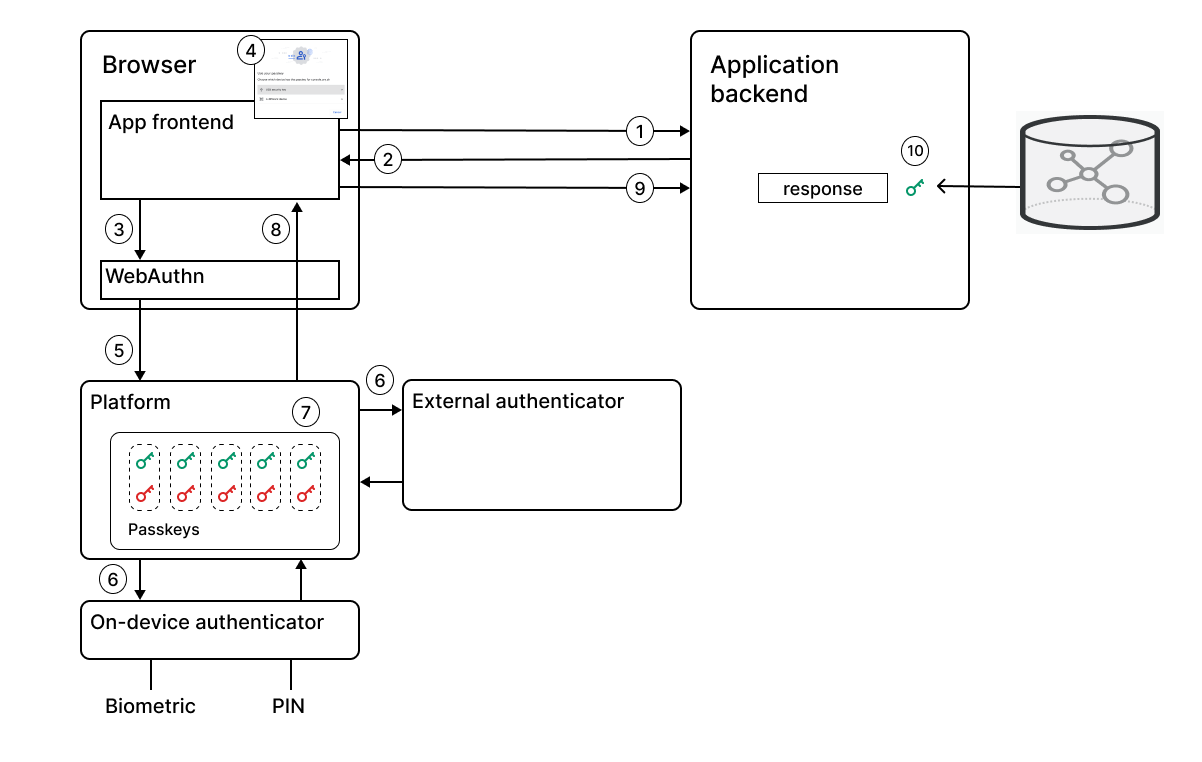
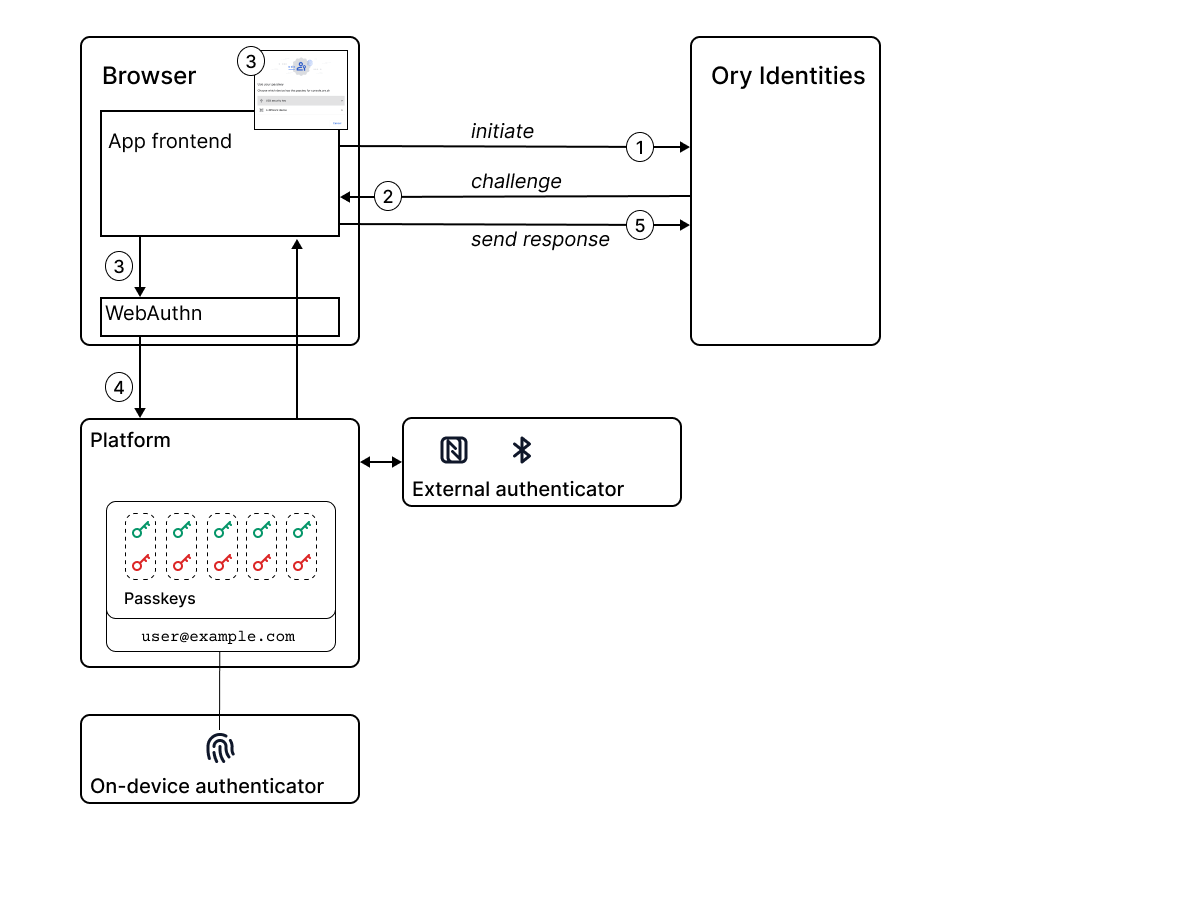
Latest draft of passwordless usecase

diff --git a/docs/use-cases/passwordless.md b/docs/use-cases/passwordless.md
@@ -13,19 +13,12 @@ their system against phishing attacks, but they would like to understand more an
 
 ## How does Ory support passwordless authentication?
 
-For browser-based apps, Ory supports passwordless authentication out of the box. Ory's self-service flows support passwordless
-authentication by integrating with the
+Ory's self-service flows support passwordless authentication for browser-based apps by integrating with the
 [W3C Web Authentication (WebAuthn) API](https://developer.mozilla.org/en-US/docs/Web/API/Web_Authentication_API) for browsers.
 After enabling WebAuthn in an Ory project, the Ory Account Experience automatically presents passwordless as an option in the
-registration and login flows. When developing your own authentication UI, the steps for integrating your application with the
-passwordless registration and login flows is described
+registration and login flows. When developing your own authentication UI for a browser-based app, the steps for integrating your
+application with the passwordless registration and login flows are described
 [in the documentation](https://www.ory.sh/docs/kratos/bring-your-own-ui/custom-ui-advanced-integration#passwordless-authentication).
-
-Support for passkeys and passwordless varies, depending on whether you are using a browser-based app or a native app:
-
-- For browser-based apps, passwordless works out of the box (leveraging WebAuthn).
-- For native apps, you need to implement your own integration with the underlying platform, using the protocol defined in the
-  CTAP2 specification.
 
 Because passwordless is a relatively new technology, at the time of writing it has not yet been rolled out across all browsers and
 platforms, but adoption is spreading rapidly. Very soon, passwordless authentication is expected to become available on all major
@@ -55,7 +48,7 @@ From the end user's perspective, passwordless login with an on-device authentica
 3. The Ory Account Experience displays the sign-in preparation dialog, which gives the user time to prepare the physical device
    for passwordless login. The user clicks **Continue** to proceed to the next step.
 4. The platform verifies the user's identity using the chosen method.
-5. Login/registration completes automatically.
+5. Login completes automatically.
 
 ### External authenticator for passwordless login flow
 
@@ -69,7 +62,7 @@ From the end user's perspective, passwordless login with an external authenticat
    ![Choose external authenticator device](./_static/external-device-choose.png)
 5. The platform verifies the user's identity using the chosen method.
    ![Verify identity with USB security key](./_static/external-device-verify-identity.png)
-6. Login/registration completes automatically.
+6. Login completes automatically.
 
 ### Authenticator options for passwordless
 
@@ -118,23 +111,23 @@ Consider the following diagram, which illustrates the passwordless-based login f
 
 The main steps in the passwordless login flow are, as follows:
 
-1. The frontend app detects that a user session is needed and sends a request to the application backend (server) to initiate
-   authentication.
-2. The server generates a challenge (consisting essentially of randomized data) and sends it back to the frontend app.
-3. The frontend app requests identity verification through the browser API (WebAuthn), passing the challenge from the server and
-   the ID that identifies this particular app (the _relying party ID_).
-4. WebAuthn pops up a dialog in the browser, presenting the user with options for verifying their identity.
-5. After the user selects a verification option, WebAuthn asks the platform (through the CTAP2 protocol) to verify the user's
-   identity using the chosen authenticator.
-6. The platform verifies the user identity using either:
-   - An on-device authenticator
-   - An external authenticator
-7. If the user identity is verified, the platform retrieves the key pair for the application and uses the private key (passkey) to
-   sign the challenge issued by the server.
-8. The platform returns the signed response to the browser and the frontend app.
-9. The frontend app returns the signed response to the server.
-10. The server validates the signed reponse, using the public key from the user's account to verify the signature (where the
-    user's public key was obtained during the passwordless sign-up flow).
+1. In the frontend app, a user enters their ID and clicks the **Sign in with security key** button, which initiates the
+   passwordless login flow on Ory Identities.
+2. Ory Identities sends a cryptographic challenge (consisting essentially of unique, random data, also known as a _nonce_) to the
+   frontend app.
+3. The frontend app requests verification of the user's identity by calling the WebAuthn API. WebAuthn automatically opens a
+   dialog in the browser, asking the user to choose an authenticator.
+4. WebAuthn delegates identity verification to the platform (operating system), passing the challenge and the choice of
+   authenticator to the platform. The platform invokes the chosen authenticator to verify the user's identity.
+
+   - **On-device authenticator:** If the user authenticates successfully, the platform selects the key pair that matches this app
+     and uses the private key to sign the challenge.
+   - **External authenticator:** Identity verification is delegated to the external device, which holds the private key that is
+     used to sign the challenge.
+
+5. The platform returns the cryptographic response (the signed challenge) to the frontend app, which forwards it on to Ory
+   Identities. Ory Identities uses the public key from the user account to verify the cryptographic response (the public key gets
+   stored in Ory Identities when the user signs up).
 
 :::note
 
@@ -147,9 +140,8 @@ in the database. The corresponding passkey (private key) never leaves the keycha
 ## How passkeys and passwordless are related
 
 Passkey-based authentication and passwordless authentication are often talked about together. But if you are new to passwordless,
-it's not always clear how these concepts are related.
-
-At some level, passkeys are always involved in the passwordless authentication process, in one of the following ways:
+it's not always clear how these concepts are related. At some level, passkeys are always involved in the passwordless
+authentication process, in one of the following ways:
 
 - **Implicit use of passkeys** &mdash; for example, when a user authenticates using fingerprint recognition or face recognition,
   the platform implicitly creates a symmetric key pair, but this detail is hidden from the user.
@@ -166,8 +158,8 @@ If you need to log in with a passkey across multiple devices, the following opti
 
 ### One-off authentication using an external device
 
-Passkeys can also be used to perform login across devices. WebAuthn defines a protocol for performing passkey authentication
-remotely over a (secured) BLE connection.
+Passkeys can be used to perform login across devices. WebAuthn defines a protocol for performing passkey authentication remotely
+over a (secured) BLE connection.
 
 For example, consider the case where the passkey for a particular application is stored in the Android OS on your mobile phone. If
 you need to log into the application from a PC, you can use the passkey on your mobile phone to verify your identity. In this
